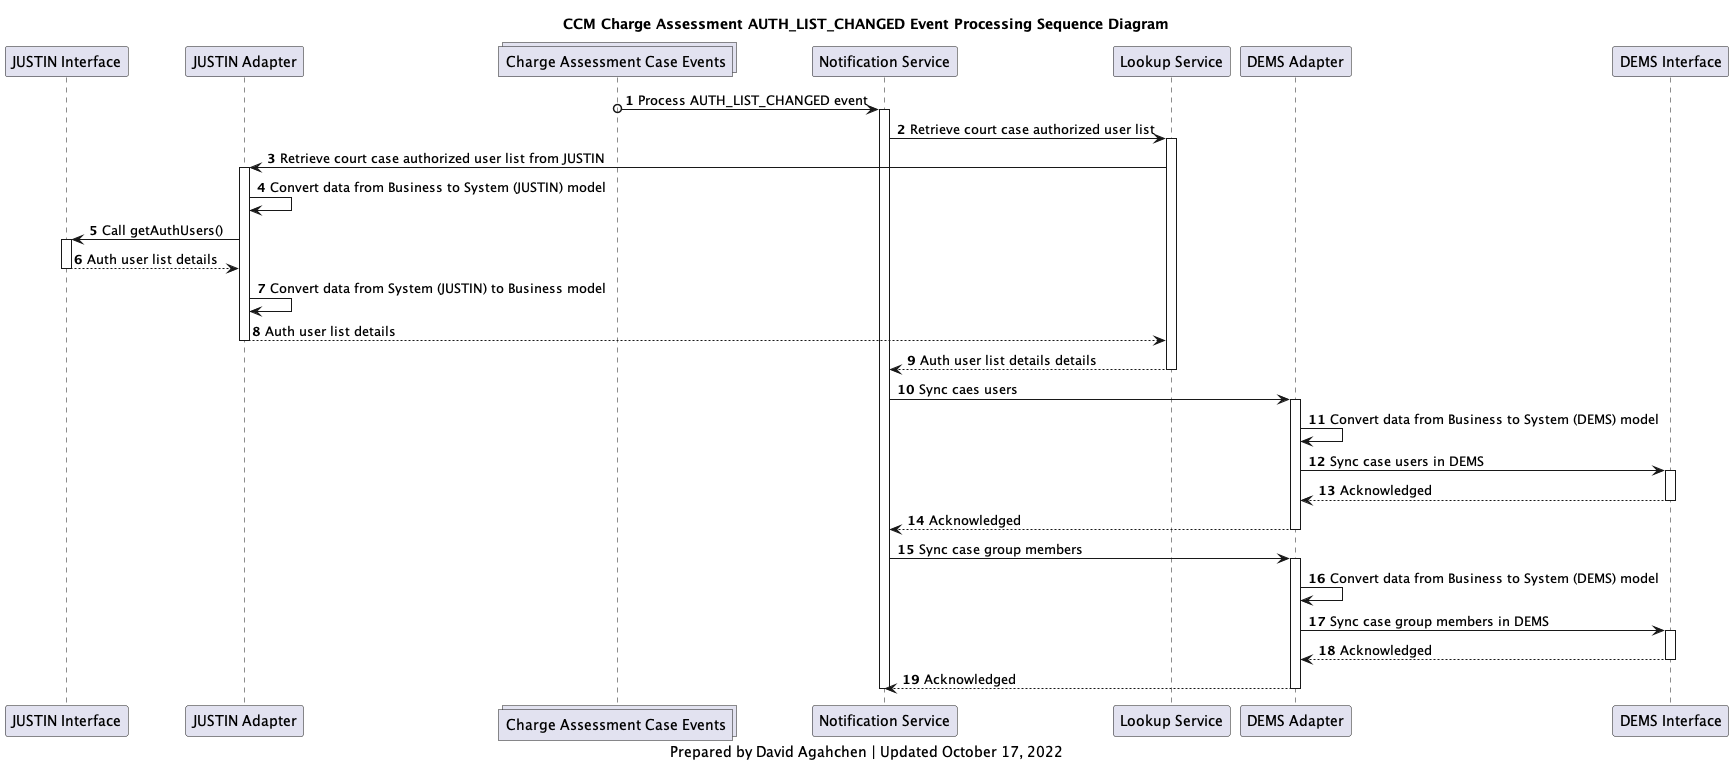
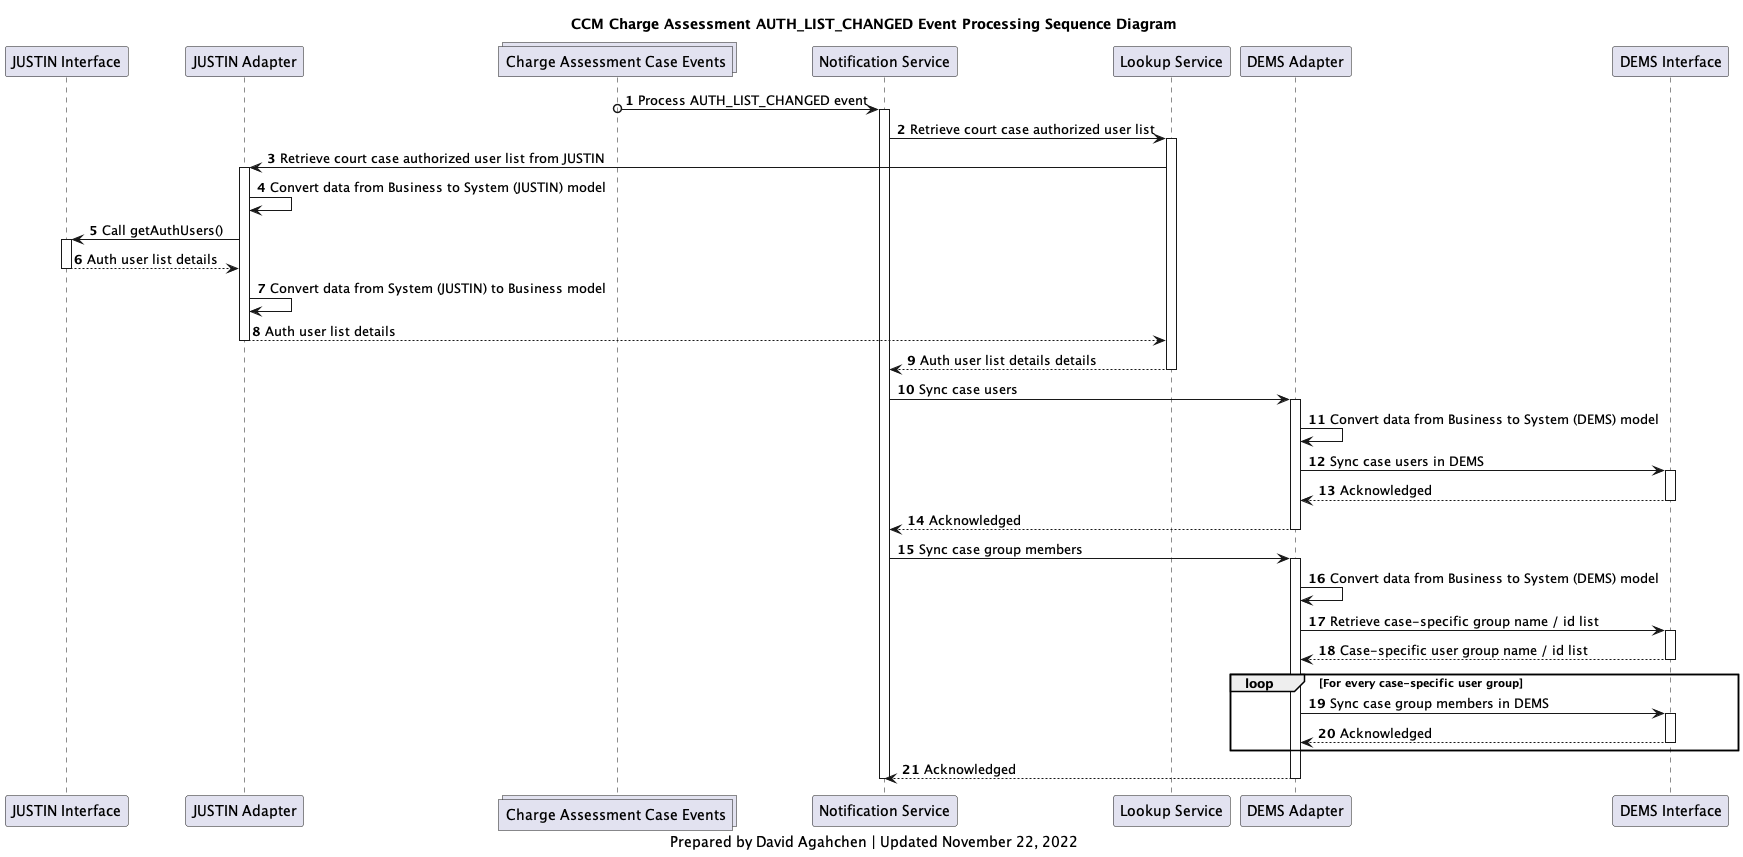
JADE-1799 doc updates

diff --git a/src/main/java/ccm/CcmDemsAdapter.java b/src/main/java/ccm/CcmDemsAdapter.java
@@ -180,42 +180,6 @@ public class CcmDemsAdapter extends RouteBuilder {
     ;
   }
 
-  private void getCourtCaseIdByKeyPreProd() {
-    // use method name as route id
-    String routeId = new Object() {}.getClass().getEnclosingMethod().getName();
-
-    // IN: exchangeProeprty.key
-    from("direct:" + routeId)
-    .routeId(routeId)
-    .streamCaching() // https://camel.apache.org/manual/faq/why-is-my-message-body-empty.html
-    .log("key = ${exchangeProperty.key}...")
-    .setProperty("dems_org_unit_id").simple("{{dems.org-unit.id}}")
-    .removeHeader("CamelHttpUri")
-    .removeHeader("CamelHttpBaseUri")
-    .removeHeaders("CamelHttp*")
-    .setHeader(Exchange.HTTP_METHOD, simple("GET"))
-    .setHeader(Exchange.CONTENT_TYPE, constant("application/json"))
-    .setHeader("Authorization").simple("Bearer " + "{{dems.token}}")
-    //.toD("https://{{dems.host}}/org-units/${exchangeProperty.dems_org_unit_id}/cases/${exchangeProperty.key}/id?throwExceptionOnFailure=false")
-    //.toD("rest:get:org-units/${exchangeProperty.dems_org_unit_id}/cases/${exchangeProperty.key}/id?throwExceptionOnFailure=false&host={{dems.host}}&bindingMode=json&ssl=true")
-    .toD("netty-http:https://{{dems.host}}/org-units/${exchangeProperty.dems_org_unit_id}/cases/${exchangeProperty.key}/id?throwExceptionOnFailure=false")
-    .choice()
-      .when().simple("${header.CamelHttpResponseCode} == 404")
-        .setProperty("id", simple(""))
-        .setBody(simple("{\"id\": \"\"}"))
-        .setHeader("CamelHttpResponseCode", simple("200"))
-        .log("Case not found.")
-      .endChoice()
-      .when().simple("${header.CamelHttpResponseCode} == 200")
-        .setProperty("id", jsonpath("$[0].id"))
-        .log("Case found. Id = ${exchangeProperty.id}")
-      .endChoice()
-      .otherwise()
-        .log(LoggingLevel.ERROR, "Case lookup error occurred: response code = ${header.CamelHttpResponseCode}, response body = '${body}'")
-    .end()
-    ;
-  }
-
   private void getCourtCaseIdByKey() {
     // use method name as route id
     String routeId = new Object() {}.getClass().getEnclosingMethod().getName();

diff --git a/README.md b/README.md
@@ -30,7 +30,7 @@ JADE-CCM sequence diagrams are created using the PlantUML sequence diagramming t
 |[Charge Asessment Case - CHANGED](diagrams/img/ccm_charge_assessment_case_changed_processing_sequence_diagram.png) ([source](diagrams/ccm_charge_assessment_case_changed_processing_sequence_diagram.plantuml))|
 |[Charge Assessment Case - CREATED](diagrams/img/ccm_charge_assessment_case_created_processing_sequence_diagram.png) ([source](diagrams/ccm_charge_assessment_case_created_processing_sequence_diagram.plantuml))|
 |[Charge Assesssment Case - UPDATED](diagrams/img/ccm_charge_assessment_case_updated_processing_sequence_diagram.png) ([source](diagrams/ccm_charge_assessment_case_updated_processing_sequence_diagram.plantuml))|
-|[Charge Assessment Case - AUTH_LIST_CHANGED](diagrams/img/ccm_charge_assessment_case_auth_list_changed_processing_sequence_diagram.img) ([source](diagrams/ccm_charge_assessment_case_auth_list_changed_processing_sequence_diagram.plantuml))|
+|[Charge Assessment Case - AUTH_LIST_CHANGED](diagrams/img/ccm_charge_assessment_case_auth_list_changed_processing_sequence_diagram.png) ([source](diagrams/ccm_charge_assessment_case_auth_list_changed_processing_sequence_diagram.plantuml))|
 |[Approved Court Case - CHANGED](diagrams/img/ccm_approved_court_case_changed_processing_sequence_diagram.png) ([source](diagrams/ccm_approved_court_case_changed_processing_sequence_diagram.plantuml))|
 |[Approved Court Case - APPEARANCE_CHANGED](diagrams/img/ccm_approved_cort_case_appearance_changed_processing_sqeuencing_diagram.png) ([source](diagrams/ccm_approved_cort_case_appearance_changed_processing_sqeuencing_diagram.plantuml))|
 |[Approved Court Case - CROWN_ASSIGNMENT_CHANGED](diagrams/img/ccm_approved_court_case_crown_assignment_changed_processing_sequence_diagram.png) ([source](diagrams/ccm_approved_court_case_crown_assignment_changed_processing_sequence_diagram.plantuml))|
